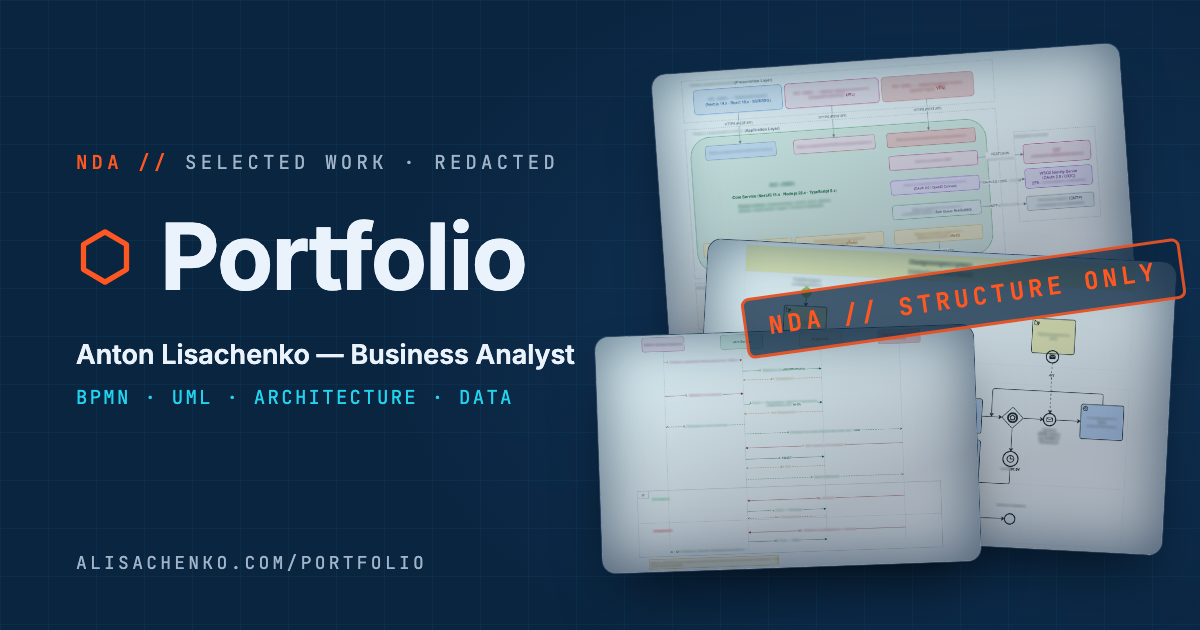
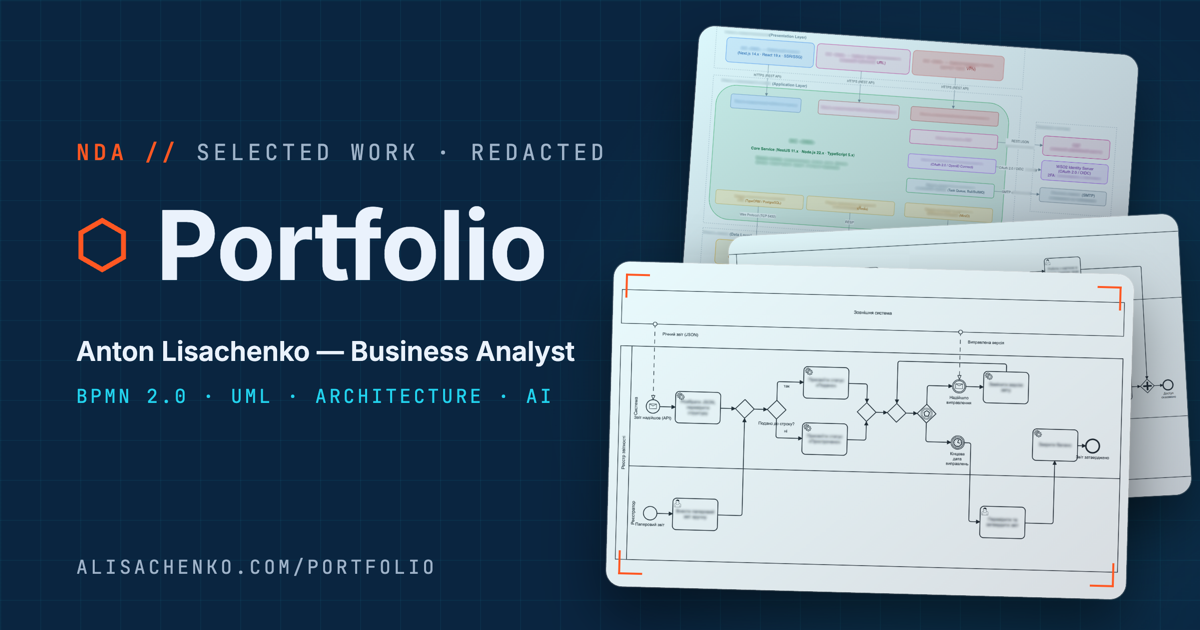
Portfolio: Annual Reporting redrawn as classic BPMN 2.0, phone lightbox toolbar under the diagram, new og preview without the stamp

diff --git a/lang.js b/lang.js
@@ -75,7 +75,7 @@
                     approval: { type: "UML · Sequence", title: "Nomenclature Approval Flow", short: "How a catalogue item moves from Project to Approved — statuses, edit locks, storage and notifications in one sequence.", desc: "Sequence for approving a nomenclature (catalogue) item: create in Project status, save to Postgres, submit with edits locked and a copy held in object storage, notify the clerk via a Redis queue; then either approve (status Approved) or return with comments (back to Project, edits unlocked)." },
                     cert: { type: "BPMN 2.0", title: "Certificate Issuance from Registry Records", short: "Reuse a certificate already issued or build a new one from source records — ending in a document with a QR code for verification.", desc: "BPMN 2.0 of issuing a certificate from registry records: the clerk first checks whether one has already been issued; if not, a draft is created and its type chosen, the object's source records are found and entered, linked records and supporting documents are added to the chain, and the content is reviewed — looping back until it is correct. The draft is saved at every step; once the clerk sets it to Generated, the system adds a QR code for verification and the certificate is printed or sent electronically." },
                     access: { type: "BPMN 2.0", title: "Access Request & Approval", short: "Time-boxed access to a registry card: requested by the user, routed by the role map, revoked automatically when the term ends.", desc: "BPMN 2.0 of role-based access on request: when a user's role gives no rights to a registry card, the system shows a request form; the user asks for specific rights (view, edit, attach files, print) for a set number of days, and the request is routed to the approving role from the role map. A rejection comes back with a reason; an approval grants access for the term, and a timer revokes it automatically once the term is over." },
-                    bpmn2: { type: "BPMN · Miro", title: "Annual Reporting Flow", short: "Two ways in — API (JSON) or paper — one way out: deadline-driven statuses, versioned corrections and registrar approval.", desc: "BPMN of an annual-reporting flow with two entry points: an external system files a JSON report via API — parsed, then stamped Submitted or Overdue by the filing date — while a registrar may also enter a paper report by hand; corrections replace the version until the cut-off date, then the registrar verifies and approves the report and the balance is closed." },
+                    bpmn2: { type: "BPMN 2.0", title: "Annual Reporting Flow", short: "Two ways in — API (JSON) or paper — one way out: deadline-driven statuses, versioned corrections and registrar approval.", desc: "BPMN 2.0 of an annual-reporting flow with two entry points: an external system files a JSON report via API — parsed, then stamped Submitted or Overdue by the filing date — while a registrar may also enter a paper report by hand; corrections replace the version until the cut-off date, then the registrar verifies and approves the report and the balance is closed." },
                     dwh: { type: "Data Architecture", title: "Medallion Data Pipeline", short: "Bronze → Silver → Gold warehouse: raw ingestion, cleaning and validation, curated marts feeding Superset and Power BI dashboards.", desc: "Data flows in a warehouse built on the medallion architecture: a Bronze layer ingests raw files untouched — idempotent and re-processable — a Silver layer cleans, validates, filters and normalizes them into one structure, and a Gold layer publishes curated marts that feed dashboards in Apache Superset (analysts) and Power BI (leadership); orchestration and scheduled jobs keep the layers consistent." },
                     rag: { type: "BPMN 2.0 · RAG", title: "User Story Validator", short: "A local RAG assistant that checks a draft story against my BA rulebook — type, INVEST / 3C, acceptance criteria, splitting, DoR — and returns the gaps plus a suggested rewrite.", desc: "An AnythingLLM workspace on a local model. Seven reference documents — story types, INVEST & 3C quality rules, acceptance-criteria patterns, splitting techniques, golden examples, DoR / DoD and reference stories — are embedded once into a local vector store. A draft story is matched against the most relevant rules and examples, and the model returns a verdict per check, untestable or missing acceptance criteria, split suggestions and a rewrite. Nothing leaves the laptop, so it works on NDA material; approved stories feed back in as new golden examples, and the analyst makes the final call." }
                 },
@@ -200,7 +200,7 @@
                     approval: { type: "UML · Sequence", title: "Флоу погодження номенклатури", short: "Як позиція номенклатури проходить шлях від «Проєкту» до «Погодженої» — статуси, блокування редагування, сховище і сповіщення в одній діаграмі.", desc: "Sequence-діаграма погодження номенклатури: створення у статусі «Проєкт», збереження в PostgreSQL, подання на погодження з блокуванням редагування та копією в об'єктному сховищі, сповіщення діловода через чергу Redis; далі — «Погодити» (статус «Погоджена») або повернення з коментарями (статус «Проєкт», розблокування редагування). Підпис на етапі подання не вимагається." },
                     cert: { type: "BPMN 2.0", title: "Формування довідки з реєстрових записів", short: "Знайти вже видану довідку або зібрати нову з первинних записів — до документа з QR-кодом для перевірки.", desc: "BPMN 2.0 формування довідки за реєстровими записами: працівник спершу шукає вже видану довідку; якщо її немає — створює чернетку й обирає тип, знаходить і вносить первинні записи про об'єкт, додає пов'язані записи та підтвердні документи в один ланцюг і перевіряє зміст — з поверненням на попередні кроки, доки все не буде коректно. Чернетка зберігається на кожному кроці; після ручного присвоєння статусу «Сформовано» система генерує QR-код для верифікації, а довідку друкують або надсилають в електронному вигляді." },
                     access: { type: "BPMN 2.0", title: "Запит і погодження доступу", short: "Тимчасовий доступ до картки реєстру: запит від користувача, маршрут за картою ролей, автоматичне скасування після строку.", desc: "BPMN 2.0 надання доступу за запитом: якщо роль користувача не дає прав на картку реєстру, система показує форму запиту; користувач зазначає потрібні права (перегляд, редагування, додавання файлів, друк) і строк у днях, а запит іде на погодження ролі, визначеній картою ролей. Відмова повертається з причиною; погодження відкриває доступ на строк, а таймер автоматично скасовує його, щойно строк мине." },
-                    bpmn2: { type: "BPMN · Miro", title: "Флоу подання щорічної звітності", short: "Два входи — API (JSON) або папір — і один вихід: статуси за дедлайном, версії уточнень і затвердження реєстратором.", desc: "BPMN флоу щорічної звітності із двома точками входу: зовнішня система подає звіт через API у форматі JSON — система парсить його і за датою подання надає статус «Подано» або «Прострочено», а реєстратор може вносити паперовий звіт вручну; уточнення замінюють версію звіту до граничної дати, після чого реєстратор верифікує та затверджує звіт і баланс зведено." },
+                    bpmn2: { type: "BPMN 2.0", title: "Флоу подання щорічної звітності", short: "Два входи — API (JSON) або папір — і один вихід: статуси за дедлайном, версії уточнень і затвердження реєстратором.", desc: "BPMN 2.0 флоу щорічної звітності із двома точками входу: зовнішня система подає звіт через API у форматі JSON — система парсить його і за датою подання надає статус «Подано» або «Прострочено», а реєстратор може вносити паперовий звіт вручну; уточнення замінюють версію звіту до граничної дати, після чого реєстратор верифікує та затверджує звіт і баланс зведено." },
                     dwh: { type: "Архітектура даних", title: "Медальйонний пайплайн даних", short: "Сховище Bronze → Silver → Gold: сирі дані, очищення й валідація, готові вітрини для дашбордів у Superset і Power BI.", desc: "Потоки даних у сховищі (DWH) за медальйонною архітектурою: рівень Bronze приймає сирі файли без змін — ідемпотентно і з можливістю повторної обробки — рівень Silver очищає, валідує, фільтрує та нормалізує їх до єдиної структури, а рівень Gold формує готові вітрини, що живлять дашборди в Apache Superset (аналітики) і Power BI (керівництво); оркестрація і планові завдання тримають шари узгодженими." },
                     rag: { type: "BPMN 2.0 · RAG", title: "Валідатор user stories", short: "Локальний RAG-асистент, який перевіряє чернетку сторі за моїми правилами BA — тип, INVEST / 3C, критерії приймання, розбиття, DoR — і повертає прогалини та варіант переписаної сторі.", desc: "Робочий простір AnythingLLM на локальній моделі. Сім довідкових документів — види сторі, правила якості INVEST і 3C, шаблони критеріїв приймання, техніки розбиття, золоті приклади, DoR / DoD та еталонні сторі — один раз індексуються в локальне векторне сховище. Чернетка сторі зіставляється з найрелевантнішими правилами й прикладами, а модель повертає вердикт по кожній перевірці, нетестовані або відсутні критерії приймання, пропозиції з розбиття та переписаний варіант. Нічого не виходить за межі ноутбука, тож це працює з матеріалами під NDA; схвалені сторі повертаються в базу як нові золоті приклади, а останнє слово — за аналітиком." }
                 },

diff --git a/portfolio.html b/portfolio.html
@@ -19,13 +19,13 @@
     <meta property="og:description"
         content="Business analysis artifacts from real projects: process models, sequence diagrams, architecture, a data pipeline and an AI workflow.">
     <meta name="twitter:card" content="summary_large_image">
-    <meta property="og:image" content="https://alisachenko.com/og-portfolio.png">
+    <meta property="og:image" content="https://alisachenko.com/og-portfolio.png?v=2026093001">
     <meta property="og:image:width" content="1200">
     <meta property="og:image:height" content="630">
     <meta property="og:image:type" content="image/png">
-    <meta property="og:image:alt" content="Portfolio — Anton Lisachenko, Business Analyst. Redacted BPMN, UML, architecture and data artifacts under an NDA stamp.">
+    <meta property="og:image:alt" content="Portfolio — Anton Lisachenko, Business Analyst. Redacted BPMN 2.0, UML, architecture and data diagrams from real projects.">
     <meta name="theme-color" content="#0a2540">
-    <link rel="stylesheet" href="style.css?v=2026092903">
+    <link rel="stylesheet" href="style.css?v=2026093001">
     <link rel="canonical" href="https://alisachenko.com/portfolio.html" />
     <!-- progressive enhancement flag: entrance-hidden states only apply with JS -->
     <script>document.documentElement.classList.add("js");</script>
@@ -749,6 +749,61 @@
             }
         }
 
+        /* phones: the document is small, so the flip arrows and the counter
+           leave it and sit in a slim toolbar right under it ("‹ 02 / 07 ›") —
+           nothing covers the diagram; a sideways swipe still flips */
+        @media (max-width: 600px) {
+            #pf-lightbox {
+                padding: 1rem;
+            }
+
+            .lb-media {
+                overflow: visible;
+            }
+
+            .lb-doc {
+                border-radius: 15px 15px 0 0;
+            }
+
+            .lb-nav {
+                top: auto;
+                bottom: -50px;
+                margin-top: 0;
+                width: 36px;
+                height: 36px;
+                font-size: 1.2rem;
+            }
+
+            .lb-prev {
+                left: 1.25rem;
+            }
+
+            .lb-next {
+                right: 1.25rem;
+            }
+
+            .lb-count {
+                top: auto;
+                left: 50%;
+                bottom: -41px;
+                transform: translateX(-50%);
+                background: none;
+            }
+
+            .lb-info {
+                padding: 4.4rem 1.25rem 1.6rem;
+            }
+
+            /* a compact close button tucked into the corner, off the diagram */
+            .lb-close {
+                top: 6px;
+                right: 6px;
+                width: 32px;
+                height: 32px;
+                font-size: 1.05rem;
+            }
+        }
+
         /* ===== REDUCED MOTION ===== */
         @media (prefers-reduced-motion: reduce) {
 
@@ -986,7 +1041,7 @@
         </figure>
     </div>
 
-    <script src="lang.js?v=2026092903"></script>
+    <script src="lang.js?v=2026093001"></script>
     <script>
         (function () {
             var reveals = Array.prototype.slice.call(document.querySelectorAll(".pf-reveal"));
@@ -1164,7 +1219,7 @@
             three.src = "https://cdnjs.cloudflare.com/ajax/libs/three.js/r128/three.min.js";
             three.onload = function () {
                 var fig = document.createElement("script");
-                fig.src = "figure.js?v=2026092903";
+                fig.src = "figure.js?v=2026093001";
                 document.body.appendChild(fig);
             };
             document.body.appendChild(three);

diff --git a/404.html b/404.html
@@ -12,7 +12,7 @@
     <link rel="icon" type="image/svg+xml" href="/favicon.svg">
     <link rel="apple-touch-icon" href="/apple-touch-icon.png">
     <meta name="theme-color" content="#0a2540">
-    <link rel="stylesheet" href="/style.css?v=2026092903">
+    <link rel="stylesheet" href="/style.css?v=2026093001">
     <!-- dark is the default theme, light only if the visitor toggled it -->
     <script>try { if (localStorage.getItem("theme") !== "light") document.documentElement.classList.add("dark"); } catch (e) { document.documentElement.classList.add("dark"); }</script>
     <style>
@@ -196,9 +196,9 @@
             scrollShrink: 0, bandless: true
         };
     </script>
-    <script src="/lang.js?v=2026092903"></script>
+    <script src="/lang.js?v=2026093001"></script>
     <script src="https://cdnjs.cloudflare.com/ajax/libs/three.js/r128/three.min.js"></script>
-    <script src="/figure.js?v=2026092903"></script>
+    <script src="/figure.js?v=2026093001"></script>
     <script>
         // ===== THEME TOGGLE (same behavior as index.html, standalone) =====
         (function () {

diff --git a/index.html b/index.html
@@ -26,7 +26,7 @@
     <meta property="og:image:alt" content="Anton Lisachenko — Business Analyst. Classic business analysis, AI-native execution.">
     <meta name="theme-color" content="#0a2540">
     <link rel="preload" href="fonts/inter-latin.woff2" as="font" type="font/woff2" crossorigin>
-    <link rel="stylesheet" href="style.css?v=2026092903">
+    <link rel="stylesheet" href="style.css?v=2026093001">
     <link rel="canonical" href="https://alisachenko.com/" />
     <!-- structured data: tells search engines who this page is about -->
     <script type="application/ld+json">
@@ -253,10 +253,10 @@
         </div>
     </section>
 
-    <script src="lang.js?v=2026092903"></script>
+    <script src="lang.js?v=2026093001"></script>
     <script src="https://cdnjs.cloudflare.com/ajax/libs/three.js/r128/three.min.js"></script>
-    <script src="figure.js?v=2026092903"></script>
-    <script src="script.js?v=2026092903"></script>
+    <script src="figure.js?v=2026093001"></script>
+    <script src="script.js?v=2026093001"></script>
 </body>
 
 </html>

diff --git a/services.html b/services.html
@@ -25,7 +25,7 @@
     <meta property="og:image:type" content="image/png">
     <meta property="og:image:alt" content="Anton Lisachenko — Business Analyst. Services.">
     <meta name="theme-color" content="#0a2540">
-    <link rel="stylesheet" href="style.css?v=2026092903">
+    <link rel="stylesheet" href="style.css?v=2026093001">
     <link rel="canonical" href="https://alisachenko.com/services.html" />
     <!-- progressive enhancement flag: entrance-hidden states only apply with JS -->
     <script>document.documentElement.classList.add("js");</script>
@@ -608,7 +608,7 @@
         <p>Anton Lisachenko &middot; &copy; 2026 &middot; <a href="index.html">alisachenko.com</a></p>
     </footer>
 
-    <script src="lang.js?v=2026092903"></script>
+    <script src="lang.js?v=2026093001"></script>
     <script>
         /* Split pill text into chip spans. Each / or + makes a new chip on the
            SAME line; a | forces a new centered line (used where one word alone

diff --git a/privacy.html b/privacy.html
@@ -10,7 +10,7 @@
     <link rel="apple-touch-icon" href="apple-touch-icon.png">
     <meta name="robots" content="noindex">
     <meta name="theme-color" content="#0a2540">
-    <link rel="stylesheet" href="style.css?v=2026092903">
+    <link rel="stylesheet" href="style.css?v=2026093001">
     <link rel="canonical" href="https://alisachenko.com/privacy.html" />
     <!-- dark is the default theme, light only if the visitor toggled it (same as
          every other page) -->
@@ -188,7 +188,7 @@
         <p>Anton Lisachenko &middot; &copy; 2026</p>
     </footer>
 
-    <script src="lang.js?v=2026092903"></script>
+    <script src="lang.js?v=2026093001"></script>
     <script>
         // ===== THEME TOGGLE (same behavior as index.html, standalone) =====
         (function () {

diff --git a/AGENTS.md b/AGENTS.md
@@ -6,7 +6,7 @@ Plain HTML/CSS/JS, no framework. Files: `index.html`, `style.css`, `script.js` (
 - Local server: `python3 -m http.server 8080` from the project root → http://localhost:8080
 - The intro plays once per session; to replay it open a fresh/private tab.
 - After editing JS run: `node --check script.js figure.js lang.js`
-- **Cache busting**: every page loads `style.css`, `lang.js`, `figure.js`, `script.js` with `?v=YYYYMMDDNN` (currently `2026092903`) (index, portfolio incl. its dynamic figure.js loader, 404, privacy, services). BUMP the version in all pages whenever one of those files changes before a deploy — otherwise browsers mix a fresh HTML page with a stale cached lang.js (Sep 27 2026: the new RAG card showed only its hard-coded bits, "Local LLM" + "tap to inspect", with empty title/desc/type). One-liner: `sed -i '' -E 's/\?v=[0-9]+/?v=NEW/g' *.html`.
+- **Cache busting**: every page loads `style.css`, `lang.js`, `figure.js`, `script.js` with `?v=YYYYMMDDNN` (currently `2026093001`) (index, portfolio incl. its dynamic figure.js loader, 404, privacy, services). BUMP the version in all pages whenever one of those files changes before a deploy — otherwise browsers mix a fresh HTML page with a stale cached lang.js (Sep 27 2026: the new RAG card showed only its hard-coded bits, "Local LLM" + "tap to inspect", with empty title/desc/type). One-liner: `sed -i '' -E 's/\?v=[0-9]+/?v=NEW/g' *.html`.
 - 404.html: GitHub Pages serves it for ANY missing path, so every asset in it is root-absolute (`/style.css`, `/figure.js`…). Locally just open `/404.html`.
 
 ## Current design (as of the dark-theme overhaul — do not regress)
@@ -66,7 +66,7 @@ Reuse patterns: `.hex` hexagon before headings, `.deco-line` above sections, mon
 ### Artifact content checklist
 Each artifact needs: title (EN + UA), type (BPMN / UML / System Architecture / ERD / User Story Map / BRD-SRS / Wireframe / AI-agent flow), tool used, 1-sentence description (EN + UA), image (PNG/JPG, width ≥ 1600px so blur doesn't eat quality).
 
-Currently: 7 artifacts live (Sep 29 2026 review — "краще менше і чіткіших"): 6 client cards + the User Story Validator, re-drawn as classic BPMN 2.0, alone in `03 // AI in Practice`. Coverage: 4 BPMN (three classic BPMN 2.0 + the Miro one), 1 UML/Sequence, 1 system architecture, 1 data architecture/DWH. Remaining types from the list to cover if desired:
+Currently: 7 artifacts live (Sep 29 2026 review — "краще менше і чіткіших"): 6 client cards + the User Story Validator, re-drawn as classic BPMN 2.0, alone in `03 // AI in Practice`. Coverage: 4 BPMN — all classic, colourless BPMN 2.0 since Sep 30 2026, 1 UML/Sequence, 1 system architecture, 1 data architecture/DWH. Remaining types from the list to cover if desired:
 1. BPMN process diagram
 2. UML / sequence diagram
 3. System architecture diagram
@@ -115,11 +115,11 @@ Separate `og:image` and `og:description` for portfolio.html. Recruiters share li
 - **Portfolio intro/CTA de-pathos'd (Sep 27 2026)** — user: the vault copy read like he "talks too much" ("shape of the thinking… craft are mine… details stay in the vault"). Now plain: p1 "Diagrams, documents and tools from real projects." / p2 "Client work is under NDA, so the previews are blurred."; CTA "Want the details?" / "I can walk you through any of these on a call — under NDA if needed."; lightbox note "preview blurred · details on a call" (UA mirrors). Meta/og descriptions no longer promise ERDs/story maps (there are none). Keep portfolio copy short and factual — no flourish.
 - **Short card blurbs (Sep 27 2026, "прибирати воду")**: each item in lang.js has a one-sentence `short` (EN+UA) shown on the strip card (`.pf-desc` → `portfolio.items.X.short`); the full `desc` rides along in a hidden `<p class="pf-full" hidden>` in the same card and the lightbox copies `.pf-full` (fallback `.pf-desc`). New cards need BOTH keys + both `<p>`s. The EN approval desc lost "The founder's signature…" (likely an archival-term leak; UA never had it). News Digest Bot card REMOVED (personal hobby tool diluting the BA focus) — its `digest` keys and `artifacts/n8n-news-digest.png` are deleted; Problem Radar's short line is reframed as problem DISCOVERY.
 - TODOs: all exports are 1600×1000 (re-export done); dedicated og-image DONE (`og-portfolio.png`, Sep 27 2026); user review of layout/wording EN+UA (two AI reviews done Aug/Sep, copy finalized); optional docs artifacts (BRD/SRS spread, story map) if the types list needs filling.
-- **Card inventory (6)** — key: img → type · title · pills:
+- **Card inventory (7)** — key: img → type · title · pills:
   1. `approval` — `sequence-diagram.png` → UML · Sequence · "Nomenclature Approval Flow" · GovTech
   2. `cert` — `bpmn-certificate-issuance.png` → BPMN 2.0 · "Certificate Issuance from Registry Records" · GovTech (Sep 29 2026)
   3. `access` — `bpmn-access-request.png` → BPMN 2.0 · "Access Request & Approval" · GovTech (Sep 29 2026)
-  4. `bpmn2` — `bpmn-annual-reporting.png` → BPMN · Miro · "Annual Reporting Flow" · Energy & Utilities
+  4. `bpmn2` — `bpmn-annual-reporting.png` → BPMN 2.0 · "Annual Reporting Flow" · Energy & Utilities (RE-DRAWN Sep 30 2026 from the colourful Miro export into the same colourless bpmn.io look as `cert`/`access` so section 01 reads as one set: black-box pool "Зовнішня система" with two message flows (the JSON report, the corrected version) into pool "Реєстр звітності" with lanes Система / Реєстратор — message start + manual paper start, XOR "Подано до строку?" → «Подано» / «Прострочено», a loop gateway into an EVENT-BASED gateway waiting for a correction message (replace the version, loop back) or the cut-off TIMER → registrar approval → close the balance → end; task captions blurred with an SVG `feGaussianBlur` 3.1 at export (`saveSVG`, so no bpmn.io watermark), events/gateway/message names readable; viewBox with generous margins because the lightbox scales the image 1.09)
   5. `arch` — `general-schematic-diagram.png` → Architecture · "System Architecture" · SaaS
   6. `dwh` — `dwh-medallion.png` → Data Architecture · "Medallion Data Pipeline" · Blockchain & Crypto
   7. `rag` — `bpmn-user-story-validation.png` → BPMN 2.0 · RAG · "User Story Validator" · Local LLM
@@ -128,11 +128,13 @@ Separate `og:image` and `og:description` for portfolio.html. Recruiters share li
 - **Sep 29 2026 review ("перероби той сором… краще менше і чіткіших… можеш видалити більше")** — REMOVED: `bpmn` "Institutions Registry — Admin Flow" + `bpmn4` "Document Extracts" (draw.io — plain flowcharts in BPMN clothing: rounded boxes, no task types, text-legend notes, half-empty frames: the "сором"), `bpmn3` "Registry Records — Lifecycle" (Miro; the diagram filled ~40% of the frame, unreadable on a card), `deploy` "Deployment Architecture" (same system as `arch`, which is richer). Their images and lang keys (EN+UK) are deleted. KEPT `bpmn2` — the Miro file is real BPMN 2.0 notation (pools, typed tasks, message flows, event-based gateway, timer).
 - **The two BPMN 2.0 cards (`cert`, `access`) were RE-DRAWN by AI** from the user's portrait exports (vertical lanes, ~1360×2000 — useless in the 16:10 `object-fit: cover` card/lightbox; his blur was so light that «Корона» and most labels read through it). Method: a Python generator writes real `.bpmn` 2.0 XML with DI (HORIZONTAL lanes, left→right, tasks 130×92 so 3-line captions clear the task-type icon, column/row layout picked to land near 16:10, merges via lane-to-lane vertical flows to keep it narrow), rendered with bpmn-js 18 (`bpmn-viewer`) in headless Chromium at 2x → Lanczos to 1600×1000, viewbox margins 96px x / 64px y (the portfolio's `scale(1.09)` eats ~72px per side — with the first 44px margin the pool edge and the end event were clipped in the lightbox). Redaction = an SVG `feGaussianBlur` (stdDeviation 3.1) on chosen labels ONLY — shapes/icons stay crisp; the labels the user left readable stay sharp (gateway questions, так/ні, «Сформовано», QR generation, «Чернетка» annotation, route-to-approver, «Погоджувач» lane, start/end events), and EVERY blurred label carries NEUTRAL replacement text (e.g. "Пошук об'єкта в покажчику" instead of the alphabetical-book search, "пов'язані записи" instead of «Корона» folders), so deblurring reveals nothing. The user's model was kept as drawn (uncontrolled merges into tasks included). The generator/.bpmn sources lived in the session scratchpad only (NOT in the repo — this repo is PUBLIC); to redo, rebuild the same way. NEVER push raw client exports to any branch of this repo.
 - **LIGHT TABLE in the lightbox (Sep 29 2026) — the SCAN SWEEP was REMOVED the same day (user: "видали сканування це жлобське"): no `.lb-scan` band, no `lb-reveal` clip, no `lb-expose` flash, no grid under the document — it is simply there on open/flip; the crop marks (0.1s) and the counter (0.14s) still come in via the `.scan` class that `rescan()` re-adds; flipping unchanged. Original notes follow for history:** — the first "non-trivial effect" put into CONTENT instead of the figure (see the figure-budget rule below). Opening a card: the document sits in its own `.lb-doc` box (so the reveal lines up with the band — the img inside is scaled 1.09) over a faint blueprint GRID (`.lb-media` background); a QUIET pane of the cube's glass `.lb-scan` (translucent teal carrying the same 28px grid, masked to fade upward, a thin cyan leading edge — the first version's hot white bar with a big glow read as "дешево" and too slow) slides top-down (`lb-sweep` 0.5s from 0.06s) while `lb-reveal` clips the document open in sync and `lb-expose` settles a faint 1.12 brightness (NEVER blur, NDA rule); then ORANGE crop marks `.lb-marks i` snap onto the corners (0.48s) and a file counter `.lb-count` `// 04 / 08` fades in on a navy chip. The animations hang off the `.scan` class (not `.open`), which `rescan()` drops + reflows + re-adds, so every document gets its own pass. **FLIPPING**: ‹ › buttons `.lb-nav` (mid-height on the media, dimmed until hover on desktop; aria-labels EN/UK), ←/→ keys, a sideways swipe on the media (> 50 px, mostly horizontal); wraps last → first; `fill(i)` swaps the content, waits for `img.decode()` before the scan (never reveals a blank), preloads both neighbours, and the write-up `.lb-info` fades in with each document. Pure CSS + small JS, zero GPU cost; reduced motion shows the final state with no sweep.
+- **Phone lightbox (Sep 30 2026)**: ≤600px the flip arrows and the `// 02 / 07` counter leave the image and sit in a slim toolbar right under it (`.lb-media { overflow: visible }`, `.lb-nav`/`.lb-count` positioned at negative `bottom`, `.lb-info` top padding 4.4rem), and the close button shrinks to 32px in the corner — before, on a small screen the buttons covered half the diagram.
+- **`og-portfolio.png` re-made Sep 30 2026**: no NDA stamp any more (it was removed from the site); three tilted glass-tinted panes (system architecture, Access Request, Annual Reporting BPMN 2.0) with orange crop marks on the front one, `NDA // SELECTED WORK · REDACTED`, hexagon + Portfolio, `BPMN 2.0 · UML · ARCHITECTURE · AI`; rendered from an HTML mock with the site's own woff2 fonts at 2x → 1200×630. `og:image` carries `?v=` so messengers refetch; `og:image:alt` no longer mentions a stamp.
 - **FIGURE BUDGET (Sep 29 2026)** — an outside AI review (the user shared it; it read the code, not renders) praised the figure but warned: "не дай фігурі перерости контент… не додавай нових механік, хай вона продає, а не вимагає"; every new figure feature must be measured before/after. I agree: new "wow" goes to content (portfolio, lower section), not the hero. A CAUSTICS layer (the drop's light cast through the glass onto a back wall) was designed but NOT built for that reason — keep it as a someday idea only if the user asks.
 - **"One style with home" pass (Sep 27 2026)**: cards are panes of the hero's glass — teal-tinted gradient + inner rim glow (inset box-shadows, kept on hover alongside the drop shadow), a cursor TORCH (`.pf-card::before` radial gradient at `--mx/--my`, written per card on pointermove) and one GLINT sweeping across on hover (`.pf-card::after`, deep-teal version in the light theme, off for reduced motion). The orange hover border stays (brand). Header is now `.pf-head-grid` (text | 320px `.pf-fig`) with the hero figure on DESKTOP ONLY: three.js + figure.js are injected by a small script only when `(min-width: 821px)` matches, so phones never download ~600 KB of Three.js (`.pf-fig` is `display:none` ≤820px). FIGURE_OPTS there: centred, `scale 1.1`, `frame 1.8`, `hit: "pf-fig-hit"`, no scroll shrink/band. The 320px `.pf-fig` is the frame + hit area; the canvas lives in `.pf-fig-stage` (180% of it, offset −40%, `pointer-events: none`) so the solid breathes/leans/rebuilds past the frame instead of being clipped top and bottom (user: "виходить за стінки… ріжеться"); body has `overflow-x: clip` so the stage never adds a horizontal scrollbar.
 - **GENERAL NDA rule — pilly are COVERS, NOT truth**: the domain pill on any card may be deliberately WRONG vs the real project (Healthcare on an archival-institutions flow, Energy & Utilities / Blockchain & Crypto as decoys for the same gov machinery). The user decides each cover; NEVER "correct" a pill back to the true domain, and NEVER put real project/realm hints into titles or descs. Real burning risk is domain-leakage via wording: the user caught AI twice ("archive/archivist", "deposits/mining" flavour) — titles/descs must read neutral (registry, documents, records, extracts) so no single card fingerprints the client.
 - **I can't see images** (no image input in this model): descriptions are written from the user's text specs and the sidecar .drawio XMLs (still saved under `/var/folders/.../T/opencode/` if needed). A second AI reviewed the exported PNGs visually (Aug 2026) and found `Django IVPublishService + DataBridge` and a `lagacy` typo readable on `dwh-medallion.png` — cosmetic, not client-identifying; user may re-blur later. Sep 29 2026 (a session that CAN see images): the typo was fixed in the PNG (the `e` of "Bronze" stamped over the first `a`, pixel-exact), and a stray Miro UI "+" button between the pools of `bpmn-annual-reporting.png` was painted out. Checked at native resolution: nothing reads through the blur on arch/deploy/sequence.
-- **Copy conventions (final)**: EN statuses WITHOUT guillemets (Approved, Submitted, Draft→Active), UA keeps «…». UA has no comma before an em-dash pairing. bpmn2 shows its tool in the type pill (`BPMN · Miro`); the re-drawn cards are plain `BPMN 2.0`. dwh is the one card that deliberately reveals real tech (Apache Superset + Power BI) — user asked for it, keep the rest of its stack hidden.
+- **Copy conventions (final)**: EN statuses WITHOUT guillemets (Approved, Submitted, Draft→Active), UA keeps «…». UA has no comma before an em-dash pairing. All BPMN cards are plain `BPMN 2.0` in the type pill (no tool names) since the Sep 30 2026 re-draw. dwh is the one card that deliberately reveals real tech (Apache Superset + Power BI) — user asked for it, keep the rest of its stack hidden.
 
 ## Services page — `services.html` (LIVE, but UNLINKED from the public site)
 
